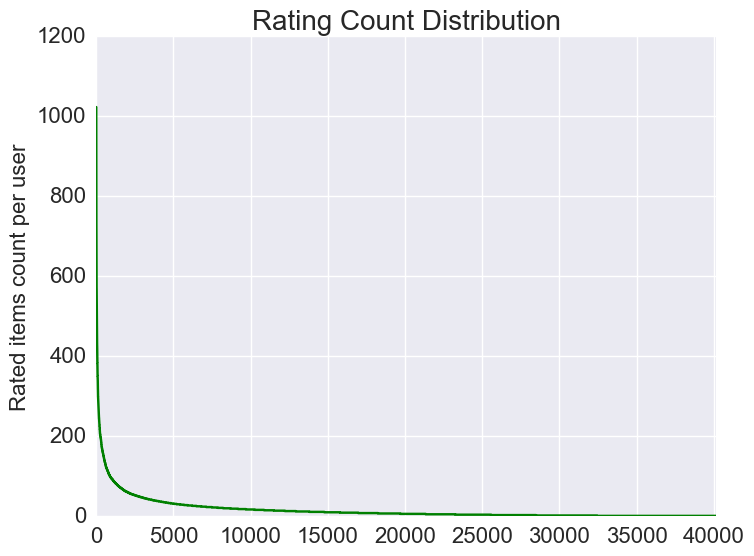
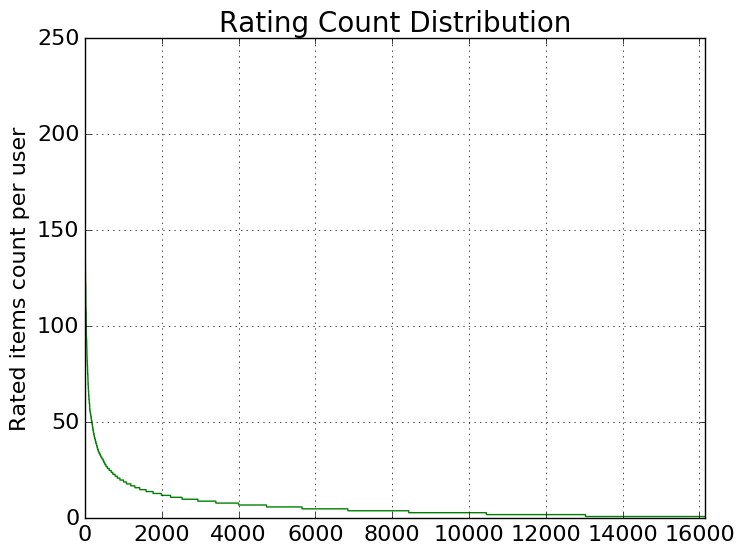
Merge branch 'master' of http://github.com/recq-cse/RecQ
# Conflicts:
# writing WS1

Changed region(s): [[0.0, 0.0, 0.9892, 0.9819]]

diff --git a/visual/visualization/analysis.html b/visual/visualization/analysis.html
@@ -2,15 +2,15 @@
 <link rel='stylesheet' type='text/css' href='reportStyle.css'/></head>
 <body><div class='reportTitle'><div class='in'>Data Analysis</div></div>
 <div class='main'><div class='area1'>
-<div class='title'><h3>Data Files</h3></div><div class='text'>Rating Data: C:\Users\Yu\Desktop\RecQ\dataset\epinions\ratings.txt<br>Social Data: C:\Users\Yu\Desktop\RecQ\dataset\epinions\trusts.txt</div></div><div style='padding-top:20px'><center><img src='images/header2.png'/></center></div>
+<div class='title'><h3>Data Files</h3></div><div class='text'>Rating Data: C:\Users\Friday\Desktop\RecQ\dataset\epinions\sample-ratings.txt<br>Social Data: C:\Users\Friday\Desktop\RecQ\dataset\epinions\sample-trusts.txt</div></div><div style='padding-top:20px'><center><img src='images/header2.png'/></center></div>
 <div class='area1'><div class='title'><h3>Rating Data</h3></div>
-<div class='text'>Rating Scale: 1.0 2.0 3.0 4.0 5.0</br>User Count: 40163<br>Item Count: 139738<br>Record Count: 664823<br>Global Mean: 4.034</div>
+<div class='text'>Rating Scale: 1.0 2.0 3.0 4.0 5.0</br>User Count: 16142<br>Item Count: 47204<br>Record Count: 109880<br>Global Mean: 4.025</div>
 <center><div class='img'><img src='images/rh.png' width='640px' height='480px'/></div></center>
 <center><div class='img'><img src='images/rcu.png' width='640px' height='480px'/></div></center>
 <center><div class='img'><img src='images/rci.png' width='640px' height='480px'/></div></center>
 </div><div style='padding-top:20px'><center><img src='images/header2.png'/></center></div>
 <div class='area1'><div class='title'><h3>Social Data</h3></div>
-<div class='text'>User Count: 49287<br>Relation Count: 487182<br></div>
+<div class='text'>User Count: 18906<br>Relation Count: 113235<br></div>
 <center><div class='img'><img src='images/ff.png' width='640px' height='480px'/></div></center>
 <center><div class='img'><img src='images/fd1.png' width='640px' height='480px'/></div></center>
 <center><div class='img'><img src='images/fd2.png' width='640px' height='480px'/></div></center>

diff --git a/baseclass/IterativeRecommender.py b/baseclass/IterativeRecommender.py
@@ -18,7 +18,7 @@ class IterativeRecommender(Recommender):
         self.maxLRate = float(learningRate['-max'])
         # regularization parameter
         regular = config.LineConfig(self.config['reg.lambda'])
-        self.regU,self.regI,self.regB= float(regular['-u']),float(regular['-i']),float(regular['-b'])
+        self.regU,self.regI,self.regB,self.regA= float(regular['-u']),float(regular['-i']),float(regular['-b']),float(regular['-a'])
 
     def printAlgorConfig(self):
         super(IterativeRecommender, self).printAlgorConfig()

diff --git a/data/social.py b/data/social.py
@@ -5,6 +5,7 @@ from tool.qmath import normalize
 import os.path
 from re import split
 
+
 class SocialDAO(object):
     def __init__(self,conf):
         self.config = conf
